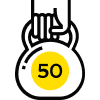
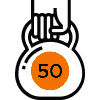
changes on contact page

Changed region(s): [[0.3, 0.51, 0.69, 0.9]]

diff --git a/template/contact.html b/template/contact.html
@@ -274,8 +274,8 @@
 		<div class="row">
 			<div class="col-lg-6 col-md-12 col-sm-12">
 				<div class="subscribe-img">
-					<img alt="girl" class="one-img" src="img/subscribe-1.jpg">
-					<img alt="girl" class="two-img" src="img/subscribe-2.jpg">
+					<img alt="girl" class="one-img" src="img/place-for-icon-2-orange.svg	">
+					<img alt="girl" class="two-img" src="img/place-for-icon-3.jpg">
 				</div>
 			</div>
 			<div class="col-lg-6 col-md-12 col-sm-12">
